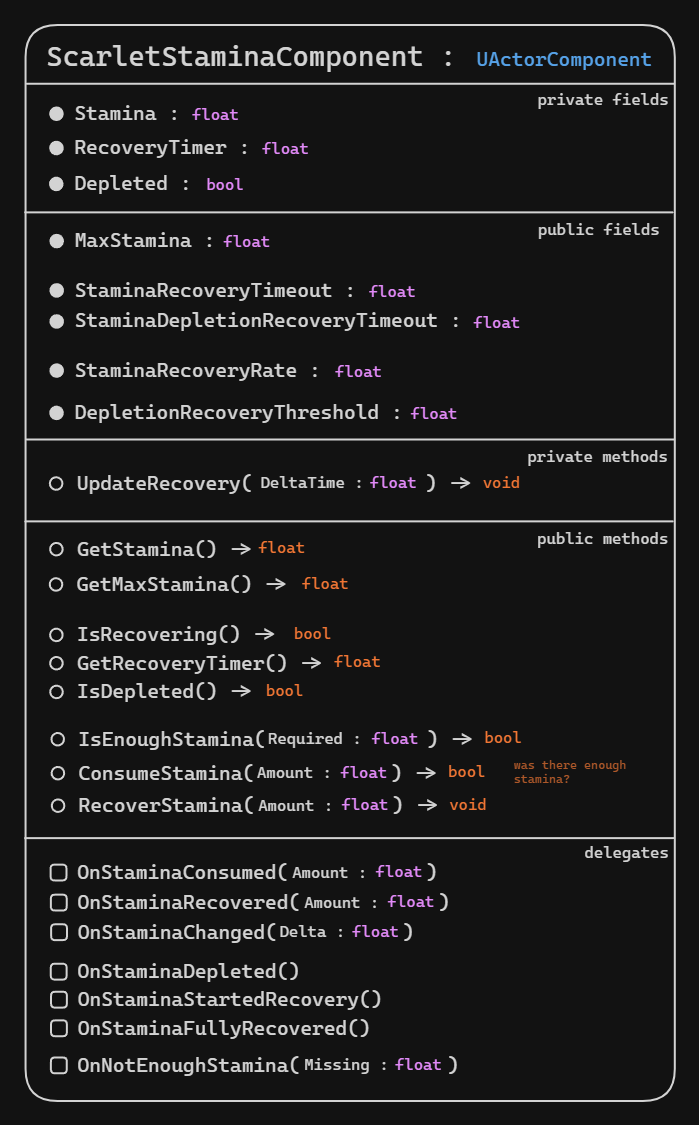
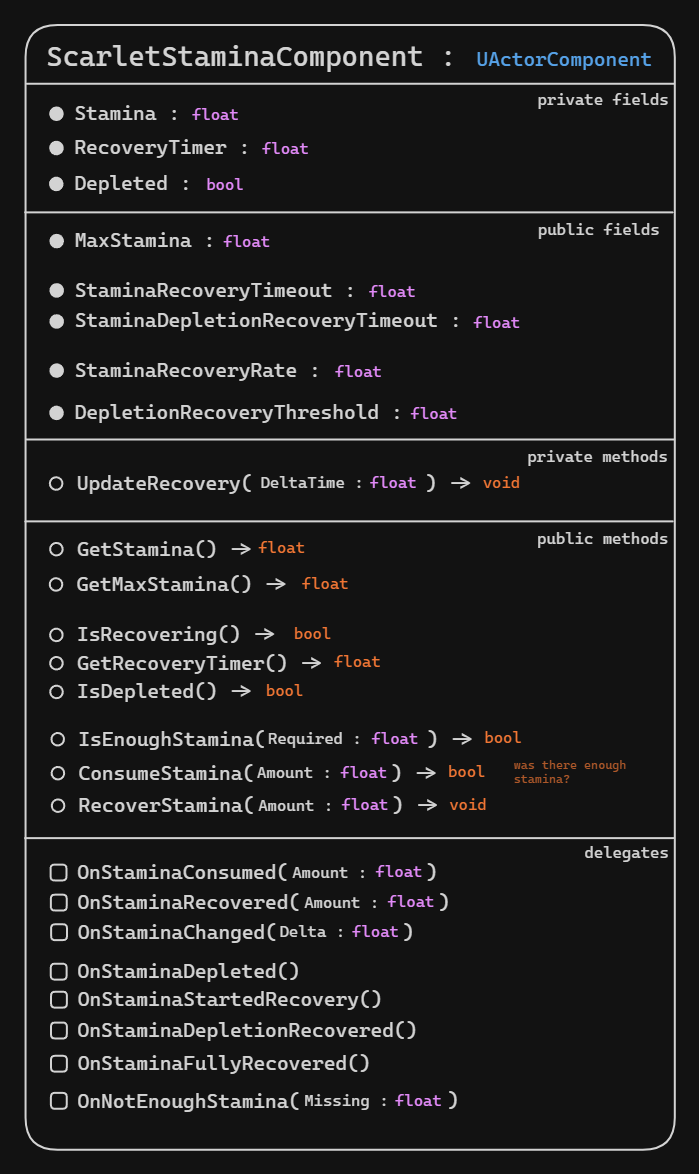
[DOCS] Code design: added depletion recovery delegate

diff --git a/Documentation/Code Design.md b/Documentation/Code Design.md
@@ -156,255 +156,261 @@ DeltaTime : ^61pKWVxv
 
 float ^FUzXc1fK
 
+OnStaminaDepletionRecovered() ^Wog5K0SU
+
 %%
 ## Drawing
 ```compressed-json
[1 lines of base64/hex data omitted]
 
[2 lines of base64/hex data omitted]
 
[2 lines of base64/hex data omitted]
 
[2 lines of base64/hex data omitted]
 
[2 lines of base64/hex data omitted]
 
[2 lines of base64/hex data omitted]
 
[2 lines of base64/hex data omitted]
 
[2 lines of base64/hex data omitted]
 
[2 lines of base64/hex data omitted]
 
[2 lines of base64/hex data omitted]
 
[2 lines of base64/hex data omitted]
 
[2 lines of base64/hex data omitted]
 
[2 lines of base64/hex data omitted]
 
[2 lines of base64/hex data omitted]
 
[2 lines of base64/hex data omitted]
 
[2 lines of base64/hex data omitted]
 
[2 lines of base64/hex data omitted]
 
[2 lines of base64/hex data omitted]
 
[2 lines of base64/hex data omitted]
 
[2 lines of base64/hex data omitted]
 
[2 lines of base64/hex data omitted]
 
[2 lines of base64/hex data omitted]
 
[2 lines of base64/hex data omitted]
 
[2 lines of base64/hex data omitted]
 
[2 lines of base64/hex data omitted]
 
[2 lines of base64/hex data omitted]
 
[2 lines of base64/hex data omitted]
 
[2 lines of base64/hex data omitted]
 
[2 lines of base64/hex data omitted]
 
[2 lines of base64/hex data omitted]
 
[2 lines of base64/hex data omitted]
 
[2 lines of base64/hex data omitted]
 
[2 lines of base64/hex data omitted]
 
[2 lines of base64/hex data omitted]
 
[2 lines of base64/hex data omitted]
 
[2 lines of base64/hex data omitted]
 
[2 lines of base64/hex data omitted]
 
[2 lines of base64/hex data omitted]
 
[2 lines of base64/hex data omitted]
 
[2 lines of base64/hex data omitted]
 
[2 lines of base64/hex data omitted]
 
[2 lines of base64/hex data omitted]
 
[2 lines of base64/hex data omitted]
 
[2 lines of base64/hex data omitted]
 
[2 lines of base64/hex data omitted]
 
[2 lines of base64/hex data omitted]
 
[2 lines of base64/hex data omitted]
 
[2 lines of base64/hex data omitted]
 
[2 lines of base64/hex data omitted]
 
[2 lines of base64/hex data omitted]
 
[2 lines of base64/hex data omitted]
 
[2 lines of base64/hex data omitted]
 
[2 lines of base64/hex data omitted]
 
[2 lines of base64/hex data omitted]
 
[2 lines of base64/hex data omitted]
 
[2 lines of base64/hex data omitted]
 
[2 lines of base64/hex data omitted]
 
[2 lines of base64/hex data omitted]
 
[2 lines of base64/hex data omitted]
 
[2 lines of base64/hex data omitted]
 
[2 lines of base64/hex data omitted]
 
[2 lines of base64/hex data omitted]
 
[2 lines of base64/hex data omitted]
 
[2 lines of base64/hex data omitted]
 
[2 lines of base64/hex data omitted]
 
[2 lines of base64/hex data omitted]
 
[2 lines of base64/hex data omitted]
 
[2 lines of base64/hex data omitted]
 
[2 lines of base64/hex data omitted]
 
[2 lines of base64/hex data omitted]
 
[2 lines of base64/hex data omitted]
 
[2 lines of base64/hex data omitted]
 
[2 lines of base64/hex data omitted]
 
[2 lines of base64/hex data omitted]
 
[2 lines of base64/hex data omitted]
 
[2 lines of base64/hex data omitted]
 
[2 lines of base64/hex data omitted]
 
[2 lines of base64/hex data omitted]
 
[2 lines of base64/hex data omitted]
 
[2 lines of base64/hex data omitted]
 
[2 lines of base64/hex data omitted]
 
[2 lines of base64/hex data omitted]
 
[2 lines of base64/hex data omitted]
 
[2 lines of base64/hex data omitted]
 
[2 lines of base64/hex data omitted]
 
[2 lines of base64/hex data omitted]
 
[2 lines of base64/hex data omitted]
 
[2 lines of base64/hex data omitted]
 
[2 lines of base64/hex data omitted]
 
[2 lines of base64/hex data omitted]
 
[2 lines of base64/hex data omitted]
 
[2 lines of base64/hex data omitted]
 
[2 lines of base64/hex data omitted]
 
[2 lines of base64/hex data omitted]
 
[2 lines of base64/hex data omitted]
 
[2 lines of base64/hex data omitted]
 
[2 lines of base64/hex data omitted]
 
[2 lines of base64/hex data omitted]
 
[2 lines of base64/hex data omitted]
 
[2 lines of base64/hex data omitted]
 
[2 lines of base64/hex data omitted]
 
[2 lines of base64/hex data omitted]
 
[2 lines of base64/hex data omitted]
 
[2 lines of base64/hex data omitted]
 
[2 lines of base64/hex data omitted]
 
[2 lines of base64/hex data omitted]
 
[2 lines of base64/hex data omitted]
 
[2 lines of base64/hex data omitted]
 
[2 lines of base64/hex data omitted]
 
[2 lines of base64/hex data omitted]
 
[2 lines of base64/hex data omitted]
 
[2 lines of base64/hex data omitted]
 
[2 lines of base64/hex data omitted]
 
[2 lines of base64/hex data omitted]
 
[2 lines of base64/hex data omitted]
 
[2 lines of base64/hex data omitted]
 
[2 lines of base64/hex data omitted]
 
[2 lines of base64/hex data omitted]
 
[2 lines of base64/hex data omitted]
 
[2 lines of base64/hex data omitted]
 
[2 lines of base64/hex data omitted]
 
[2 lines of base64/hex data omitted]
 
[2 lines of base64/hex data omitted]
 
[2 lines of base64/hex data omitted]
+
[1 lines of base64/hex data omitted]
+
[1 lines of base64/hex data omitted]
 ```
 %%
